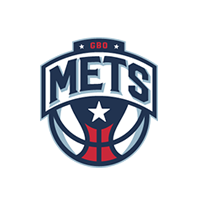
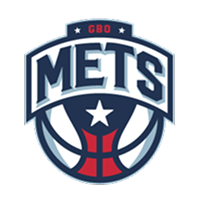
chore: prepare Heroku deployment and update team assets
Add an optimized Next.js Procfile for Heroku runtime, document deployment steps, and include updated team image assets.

Made-with: Cursor

diff --git a/README.md b/README.md
@@ -34,3 +34,18 @@ You can check out [the Next.js GitHub repository](https://github.com/vercel/next
 The easiest way to deploy your Next.js app is to use the [Vercel Platform](https://vercel.com/new?utm_medium=default-template&filter=next.js&utm_source=create-next-app&utm_campaign=create-next-app-readme) from the creators of Next.js.
 
 Check out our [Next.js deployment documentation](https://nextjs.org/docs/app/building-your-application/deploying) for more details.
+
+## Deploy on Heroku
+
+This app is ready to run on Heroku with the included `Procfile`.
+
+1. Create the Heroku app and set Node.js buildpack:
+   - `heroku create <your-app-name>`
+2. Set required environment variables:
+   - `heroku config:set NEXT_PUBLIC_API_BASE_URL=...`
+   - `heroku config:set NEXT_PUBLIC_WSC_API_KEY=...`
+   - Add any other values used locally in `.env`.
+3. Deploy:
+   - `git push heroku main`
+4. Open the app:
+   - `heroku open`
